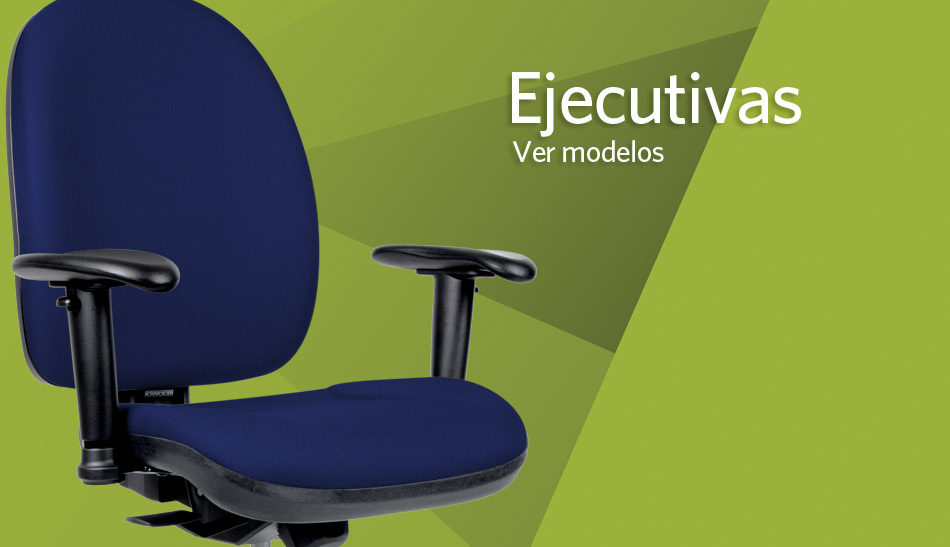
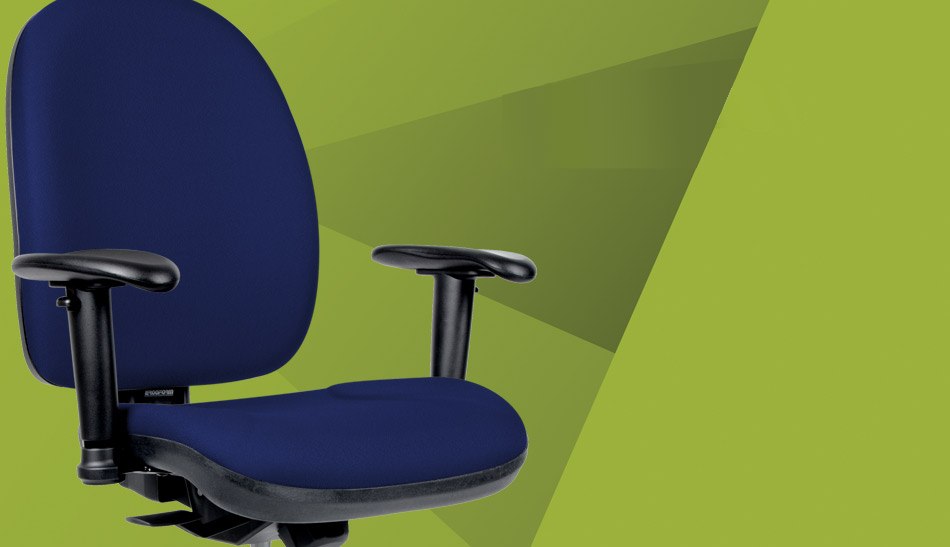
hi

Changed region(s): [[0.5189, 0.1243, 0.8547, 0.3108]]

diff --git a/index.html b/index.html
@@ -2,6 +2,7 @@
 <html lang="en">
 
 <head>
+<<<<<<< Updated upstream
   <meta charset="utf-8">
   <title>Bell Bootstrap 4 Theme</title>
   <meta content="width=device-width, initial-scale=1.0" name="viewport">
@@ -137,6 +138,103 @@
             <span class="stats-no" data-toggle="counter-up">232</span> Satisfied Customers
           </div>
         </div>
+=======
+    <meta charset="utf-8">
+    <meta name="viewport" content="width=device-width, initial-scale=1.0">
+    <meta name="description" content="">
+    <meta name="author" content="">
+    <title>Biz Express</title>
+	<!-- core CSS -->
+    <link href="css/bootstrap.min.css" rel="stylesheet">
+    <link href="css/font-awesome.min.css" rel="stylesheet">
+    <link href="css/animate.min.css" rel="stylesheet">
+    <link href="css/owl.carousel.css" rel="stylesheet">
+    <link href="css/owl.transitions.css" rel="stylesheet">
+    <link href="css/main.css" rel="stylesheet">
+    <!--[if lt IE 9]>
+    <script src="js/html5shiv.js"></script>
+    <script src="js/respond.min.js"></script>
+    <![endif]-->       
+  
+</head><!--/head-->
+
+<body id="home" class="homepage">
+
+    <header id="header">
+        <nav id="main-menu" class="navbar navbar-default navbar-fixed-top top-nav-collapse" role="banner">
+            <div class="container">
+                <div class="navbar-header">
+                    <button type="button" class="navbar-toggle" data-toggle="collapse" data-target=".navbar-collapse">
+                        <span class="sr-only">Toggle navigation</span>
+                        <span class="icon-bar"></span>
+                        <span class="icon-bar"></span>
+                        <span class="icon-bar"></span>
+                    </button>
+                    <a class="navbar-brand" href="index.html"><img src="images/Logo22.png" alt="logo"></a>
+                </div>
+				
+                <div class="collapse navbar-collapse navbar-right">
+                    <ul class="nav navbar-nav">
+                        <li class="scroll active"><a href="#home">Inicio </a></li>
+                        <li class="scroll"><a href="#services">Nosotros </a></li>
+                        <li class="scroll"><a href="#portfolio">Productos</a></li>
+                        <li class="scroll"><a href="#get-in-touch">Contacto </a></li>                    
+                    </ul>
+                </div>
+            </div><!--/.container-->
+        </nav><!--/nav-->
+    </header><!--/header-->
+
+    <section id="main-slider">
+        <div class="owl-carousel">
+            <div class="item" style="background-image: url(images/03.jpg);">
+                <div class="slider-inner">
+                    <div class="container">
+                        <div class="row">
+                            <div class="col-sm-12 text-center">
+                                <div class="carousel-content">
+                                    <h2>Industriales</h2>
+                                  
+                                    <a class="btn btn-primary btn-lg" href="#">Ver Modelos</a>
+                                </div>
+                            </div>
+                        </div>
+                    </div>
+                </div>
+            </div><!--/.item-->
+             <div class="item" style="background-image: url(images/05.jpg);">
+                <div class="slider-inner">
+                    <div class="container">
+                        <div class="row">
+                            <div class="col-sm-12 text-center">
+                                <div class="carousel-content">
+                                    <h2>Ejecutivas</h2>
+                                  
+                                    <a class="btn btn-primary btn-lg" href="#">Ver Modelos</a>
+                                </div>
+                            </div>
+                        </div>
+                    </div>
+                </div>
+            </div><!--/.item-->
+            <div class="item" style="background-image: url(images/08.jpg);">
+                <div class="slider-inner">
+                    <div class="container">
+                        <div class="row">
+                            <div class="col-sm-12 text-center">
+                                <div class="carousel-content">
+                                   <h2>Visita / Comedor</h2>
+                                  
+                                    <a class="btn btn-primary btn-lg" href="#">Ver Modelos</a>
+                                </div>
+                            </div>
+                        </div>
+                    </div>
+                </div>
+            </div><!--/.item-->
+        </div><!--/.owl-carousel-->
+    </section><!--/#main-slider-->
+>>>>>>> Stashed changes
 
         <div class="stats-col text-center col-md-3 col-sm-6">
           <div class="circle">
